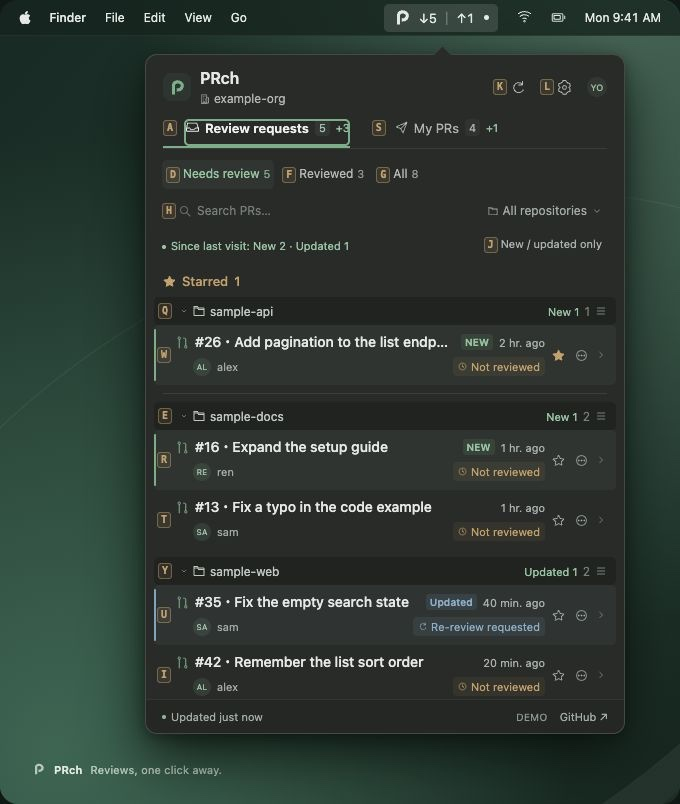
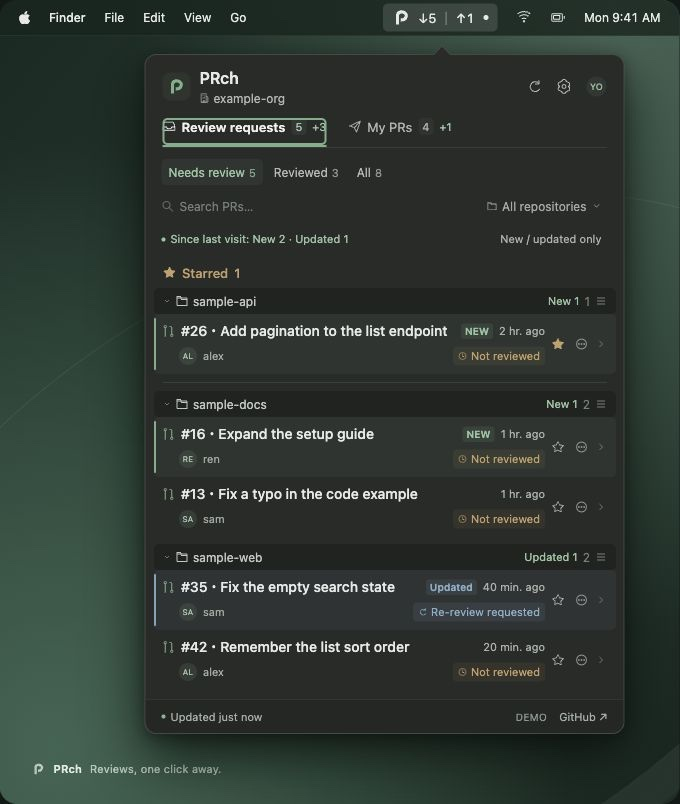
Show keyboard hints only in explicit shortcut mode

diff --git a/Sources/PRch/ReviewPanel.swift b/Sources/PRch/ReviewPanel.swift
@@ -144,13 +144,6 @@ struct ReviewPanel: View {
             + keyboardItems.map { .item($0) }
     }
 
-    private var automaticHints: Bool { keyboard.mode != .standard }
-
-    private func resetHints() {
-        hints = automaticHints && panelActive && !searchFocused && !keyboard.isRecording && !hintTargets.isEmpty
-            ? KeyboardHintSession(targets: hintTargets, mode: keyboard.mode) : nil
-    }
-
     private func activateHint(_ target: KeyboardHintTarget) {
         // Data can refresh while a key event is queued. Never activate a stale target.
         guard hintTargets.contains(target) else { return }
@@ -186,22 +179,19 @@ struct ReviewPanel: View {
         if var session = hints {
             if editing || composing { hints = nil }
             else {
-                let hadPrefix = !session.presentation.prefix.isEmpty
                 switch session.handle(keyCode: event.keyCode, characters: characters, modifiers: event.modifierFlags,
                                       isRepeat: event.isARepeat) {
                 case .pending: hints = session; consumedHintKey = event.keyCode; return true
                 case .selected(let target):
+                    hints = nil
                     activateHint(target)
-                    resetHints()
                     consumedHintKey = event.keyCode
                     return true
                 case .cancel:
-                    resetHints()
-                    if !automaticHints || hadPrefix || KeyboardHintSession.isToggle(characters: characters, modifiers: event.modifierFlags) {
-                        consumedHintKey = event.keyCode
-                        return true
-                    }
-                case .passThrough: resetHints()
+                    hints = nil
+                    consumedHintKey = event.keyCode
+                    return true
+                case .passThrough: hints = nil
                 }
             }
         } else if !editing, !composing, !hintTargets.isEmpty,
@@ -311,15 +301,15 @@ struct ReviewPanel: View {
         }.frame(width: 0, height: 0))
         .background(PanelKeyHandler(handle: handleKey, startsWithNavigation: !store.showSettings).frame(width: 0, height: 0))
         .onDisappear { hints = nil; finishActivitySession() }
-        .onChange(of: hintTargets, initial: true) { _, _ in resetHints() }
-        .onChange(of: panelActive) { _, _ in resetHints() }
-        .onChange(of: searchFocused) { _, _ in resetHints() }
-        .onChange(of: keyboard.mode) { _, _ in resetHints() }
-        .onChange(of: keyboard.isRecording) { _, _ in resetHints() }
+        .onChange(of: hintTargets) { _, _ in hints = nil }
+        .onChange(of: panelActive) { _, _ in hints = nil }
+        .onChange(of: searchFocused) { _, _ in hints = nil }
+        .onChange(of: keyboard.mode) { _, _ in hints = nil }
+        .onChange(of: keyboard.isRecording) { _, _ in hints = nil }
         .onChange(of: tab) { _, _ in recordTabActivity() }
         .onChange(of: store.snapshot?.fetchedAt) { _, _ in recordTabActivity() }
         .onChange(of: store.showSettings) { _, showing in if !showing { recordTabActivity() } }
-        .onChange(of: detail) { _, detail in resetHints(); if detail == nil { recordTabActivity() } }
+        .onChange(of: detail) { _, detail in hints = nil; if detail == nil { recordTabActivity() } }
         .onChange(of: store.scopes) { _, _ in selectedRepository = "all"; detail = nil }
         .onChange(of: keyboardItems, initial: true) { _, items in
             navigation.reconcile(items: items)
@@ -637,7 +627,7 @@ struct ReviewPanel: View {
 
     private var footer: some View {
         HStack(spacing: 5) {
-            if hints != nil && !automaticHints {
+            if hints != nil {
                 Image(systemName: "keyboard")
                 Text(l10n.text("keyboard.hints.active"))
             } else {

diff --git a/docs/media/preview.html b/docs/media/preview.html
@@ -38,10 +38,7 @@
 .star-button .symbol{width:13px;height:13px}.star-button[aria-pressed=true]{color:#c5a067}.star-button[aria-pressed=true] svg{fill:currentColor}
 .star-button:hover{background:#ffffff09}.starred-heading{display:flex;align-items:center;gap:6px;padding:8px 9px;color:#c5a067;font-size:13px;font-weight:500}
 .starred-heading .symbol{width:13px;height:13px}.starred-heading svg{fill:currentColor}.starred-divider{border:0;border-top:1px solid #ffffff18;margin:8px 9px}
-/* Default Emacs mode keeps compact key hints beside each navigation target. */
-.key-hint{display:inline-flex;align-items:center;flex-shrink:0;align-self:center;font:600 10px ui-monospace,monospace;color:#c5a067;background:#c5a0671a;border:1px solid #c5a06773;border-radius:3px;padding:1px 3px;line-height:12px;margin-right:3px;pointer-events:none}
-.hinted-icon{display:inline-flex;align-items:center;gap:0}.filter{padding-left:4px;padding-right:4px}.row>.key-hint{margin-left:-5px}.group-header>.key-hint{margin-left:-5px}
-.tab{position:relative}.tab[aria-selected=true]::after{content:"";position:absolute;left:21px;right:0;top:0;bottom:0;border:2px solid #79af87;border-radius:5px;pointer-events:none}
+.tab{position:relative}.tab[aria-selected=true]::after{content:"";position:absolute;left:0;right:0;top:0;bottom:0;border:2px solid #79af87;border-radius:5px;pointer-events:none}
 </style>
 </head>
 <body>
@@ -113,23 +110,6 @@ function acknowledge(){
  for(const id of visitedTabs)for(const pr of sourceFor(id))delete pr.activity;
  visitedTabs.clear();
 }
-function renderHints(){
- document.querySelectorAll('.key-hint').forEach(el=>el.remove());
- const targets=[document.getElementById('incoming'),document.getElementById('outgoing'),
-  ...document.querySelectorAll('[data-filter]'),document.querySelector('.search [data-icon=search]'),
-  document.getElementById('activity-only'),document.querySelector('.head-actions [data-icon=refresh]'),
-  document.querySelector('.head-actions [data-icon=settings]'),
-  ...document.querySelectorAll('.list .group-header,.list .row,.list .pending-toggle')];
- const alphabet='ASDFGHJKLQWERTYUIOPZXCVBNM',width=targets.length>alphabet.length?2:1;
- targets.forEach((target,index)=>{
-  const hint=document.createElement('kbd');hint.className='key-hint';hint.setAttribute('aria-hidden','true');
-  hint.textContent=(width===2?alphabet[Math.floor(index/alphabet.length)]:'')+alphabet[index%alphabet.length];
-  if(target.classList.contains('symbol')){
-   if(!target.parentElement.classList.contains('hinted-icon')){const wrapper=document.createElement('span');wrapper.className='hinted-icon';target.before(wrapper);wrapper.append(target);}
-   target.before(hint);
-  }else target.prepend(hint);
- });
-}
 function render(){
  panel.hidden=!isOpen;panel.inert=!isOpen;panel.setAttribute('aria-hidden',String(!isOpen));trigger.setAttribute('aria-expanded',String(isOpen));
  const reviews=incomingPRs.filter(pr=>!pr.pending&&matches(pr,'pending')).length,changes=outgoingPRs.filter(pr=>!pr.pending&&pr.status==='changes').length;
@@ -175,7 +155,7 @@ function render(){
   header.addEventListener('drop',event=>{event.preventDefault();header.classList.remove('drop-target');const source=event.dataTransfer.getData('application/x-prch-repository'),from=repositoryOrder.indexOf(source),to=repositoryOrder.indexOf(repo);if(from<0||from===to)return;repositoryOrder.splice(from,1);repositoryOrder.splice(to,0,source);render();});
  });
  document.querySelectorAll('[data-scene]').forEach(b=>b.setAttribute('aria-pressed',String(b.dataset.scene===(!isOpen?'closed':tab==='incoming'?'incoming':filter==='changes'?'changes':'outgoing'))));
- renderHints();align(!isOpen?'closed':tab);
+ align(!isOpen?'closed':tab);
 }
 function scene(name){
  if(name==='closed')acknowledge();

diff --git a/README.md b/README.md
@@ -44,9 +44,9 @@ Choose **Emacs (default)**, **Vim**, or **Standard** navigation:
 | Leave field, go back, or close panel | `C-g` | `Esc` | `Esc` |
 | Open selected PR on GitHub / toggle heading | `Return` | `Return` | `Return` |
 | Incoming / outgoing tab | `⌘1` / `⌘2` | `⌘1` / `⌘2` | `⌘1` / `⌘2` |
-| Key hints | Always visible | Always visible (reserves `h/j/k/l`) | `?` in Standard mode |
+| Shortcut mode (key hints) | `?` | `?` | `?` |
 
-In Emacs and Vim modes, framed key labels stay visible on tabs, status filters, PR rows, and other controls. Type a label to activate that target; PR labels open details. Vim's `h/j/k/l` stay reserved for navigation. If there are many targets, type the label's letters in order; matching hints narrow as you type. Backspace corrects a partial label, and Esc clears it (Emacs also supports `C-g`). With no partial label, Esc keeps its usual back/close behavior. Labels stay fixed while scrolling; a change to the available targets resets partial input. Hints hide while editing text or settings. Standard mode shows hints on `?` and dismisses them after choosing a target or pressing Esc.
+Navigation keys work without showing hints. Press `?` in any navigation mode to enter shortcut mode and show framed key labels on tabs, status filters, PR rows, and other controls. Type a label to activate its target; PR labels open details. Choosing a target, pressing Esc or `?` again exits shortcut mode (Emacs also supports `C-g`). If a label has multiple letters, type them in order; Backspace corrects partial input. Vim keeps `h/j/k/l` for navigation. Navigation keys exit shortcut mode and perform their usual action. Labels stay fixed while scrolling; changes to the available targets, text editing, settings, and closing the panel also dismiss hints.
 
 Opening or reopening the panel gives keyboard focus to navigation. Choose the search field or use its search shortcut to start typing; reopening keeps the search query.
 
